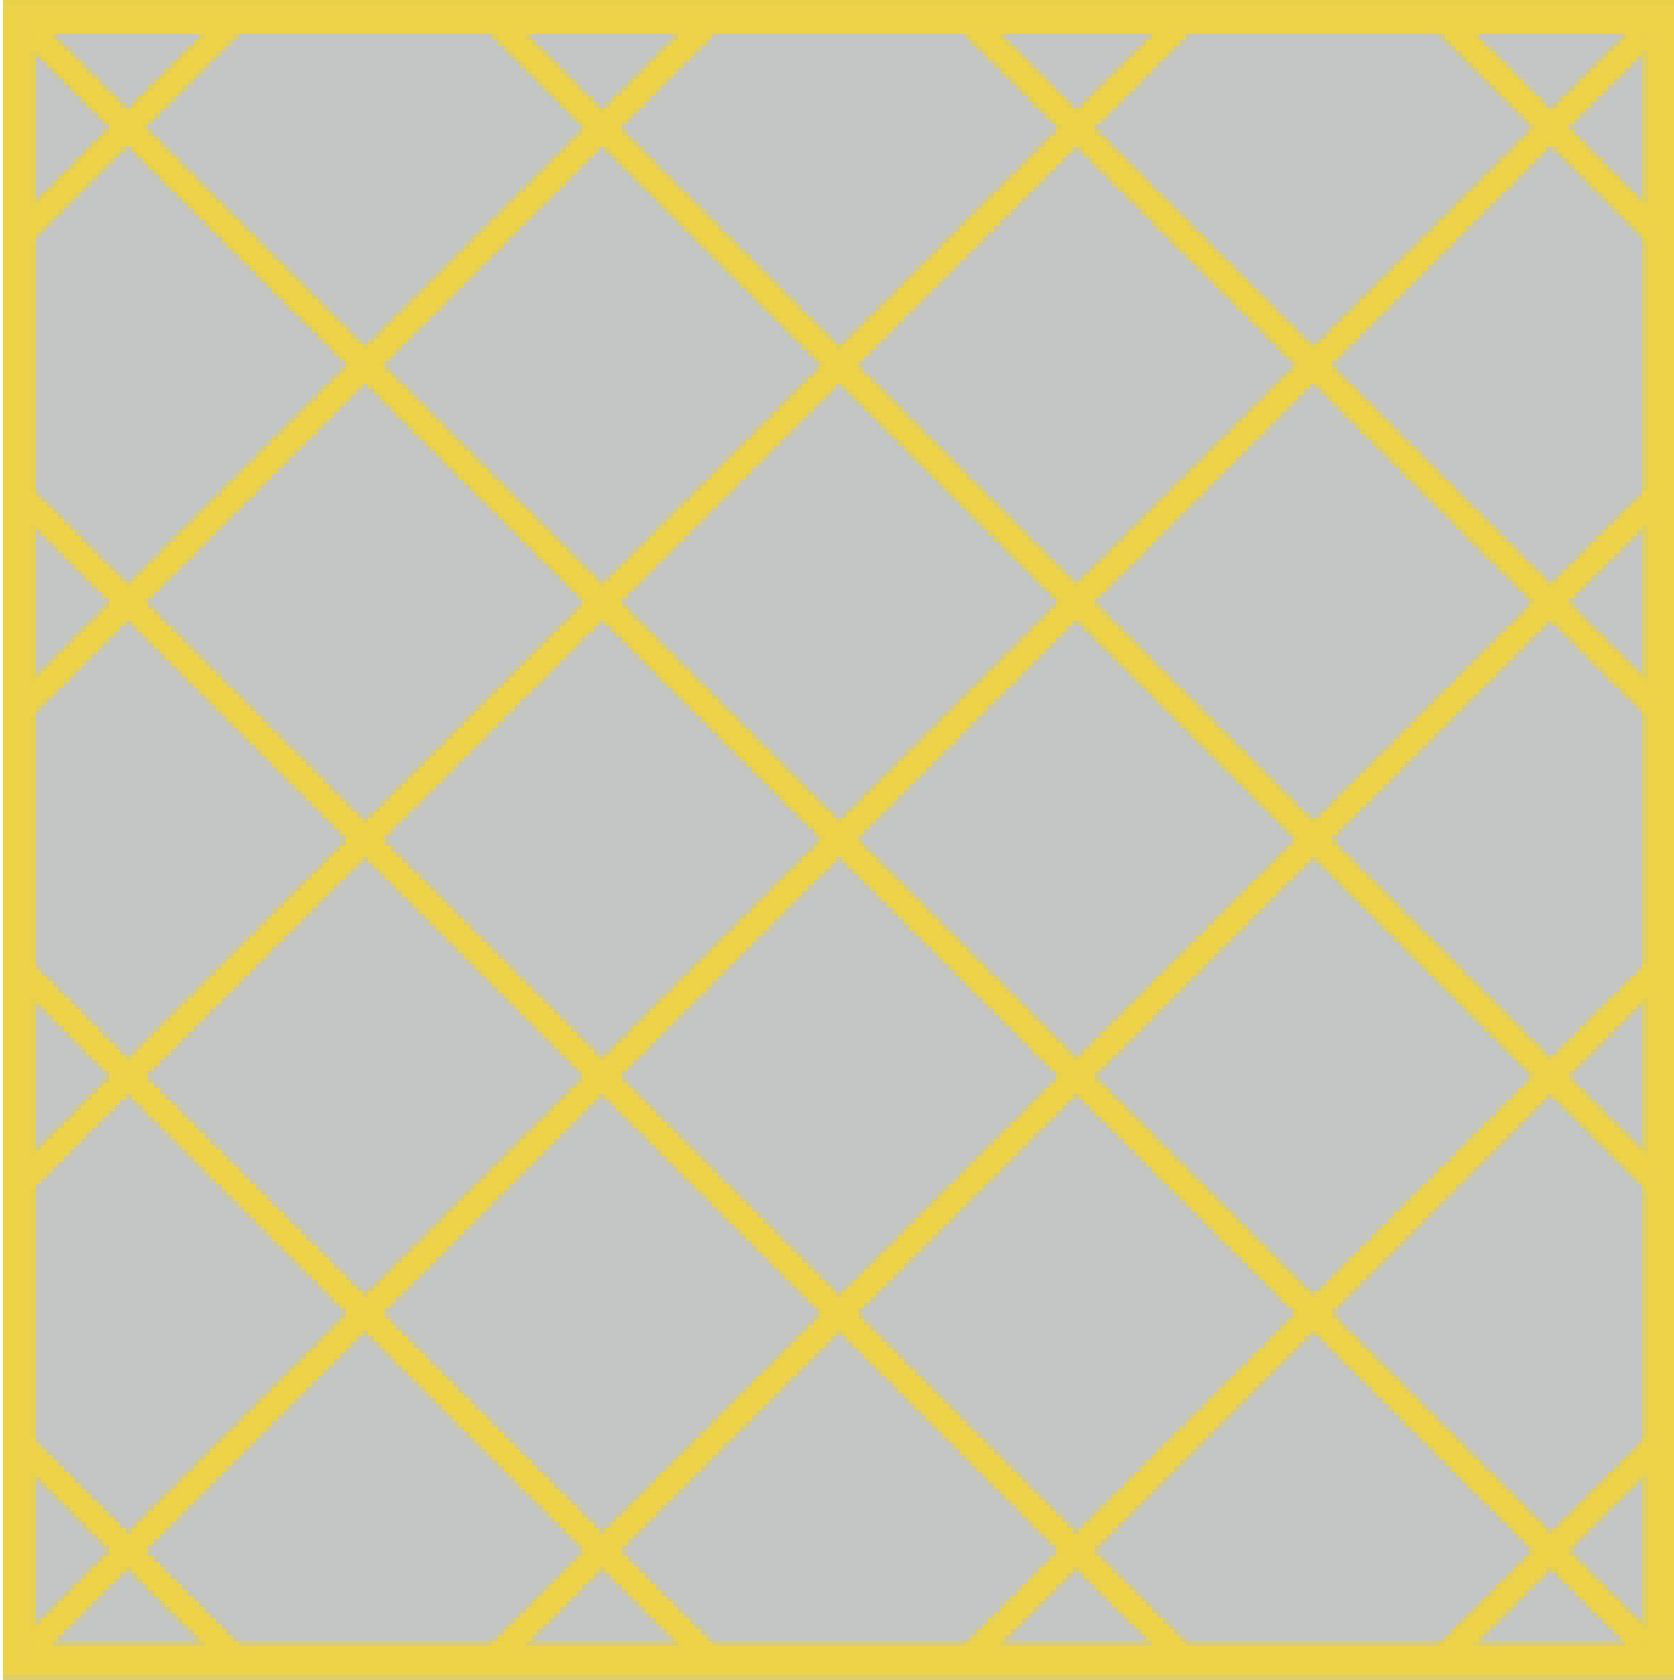
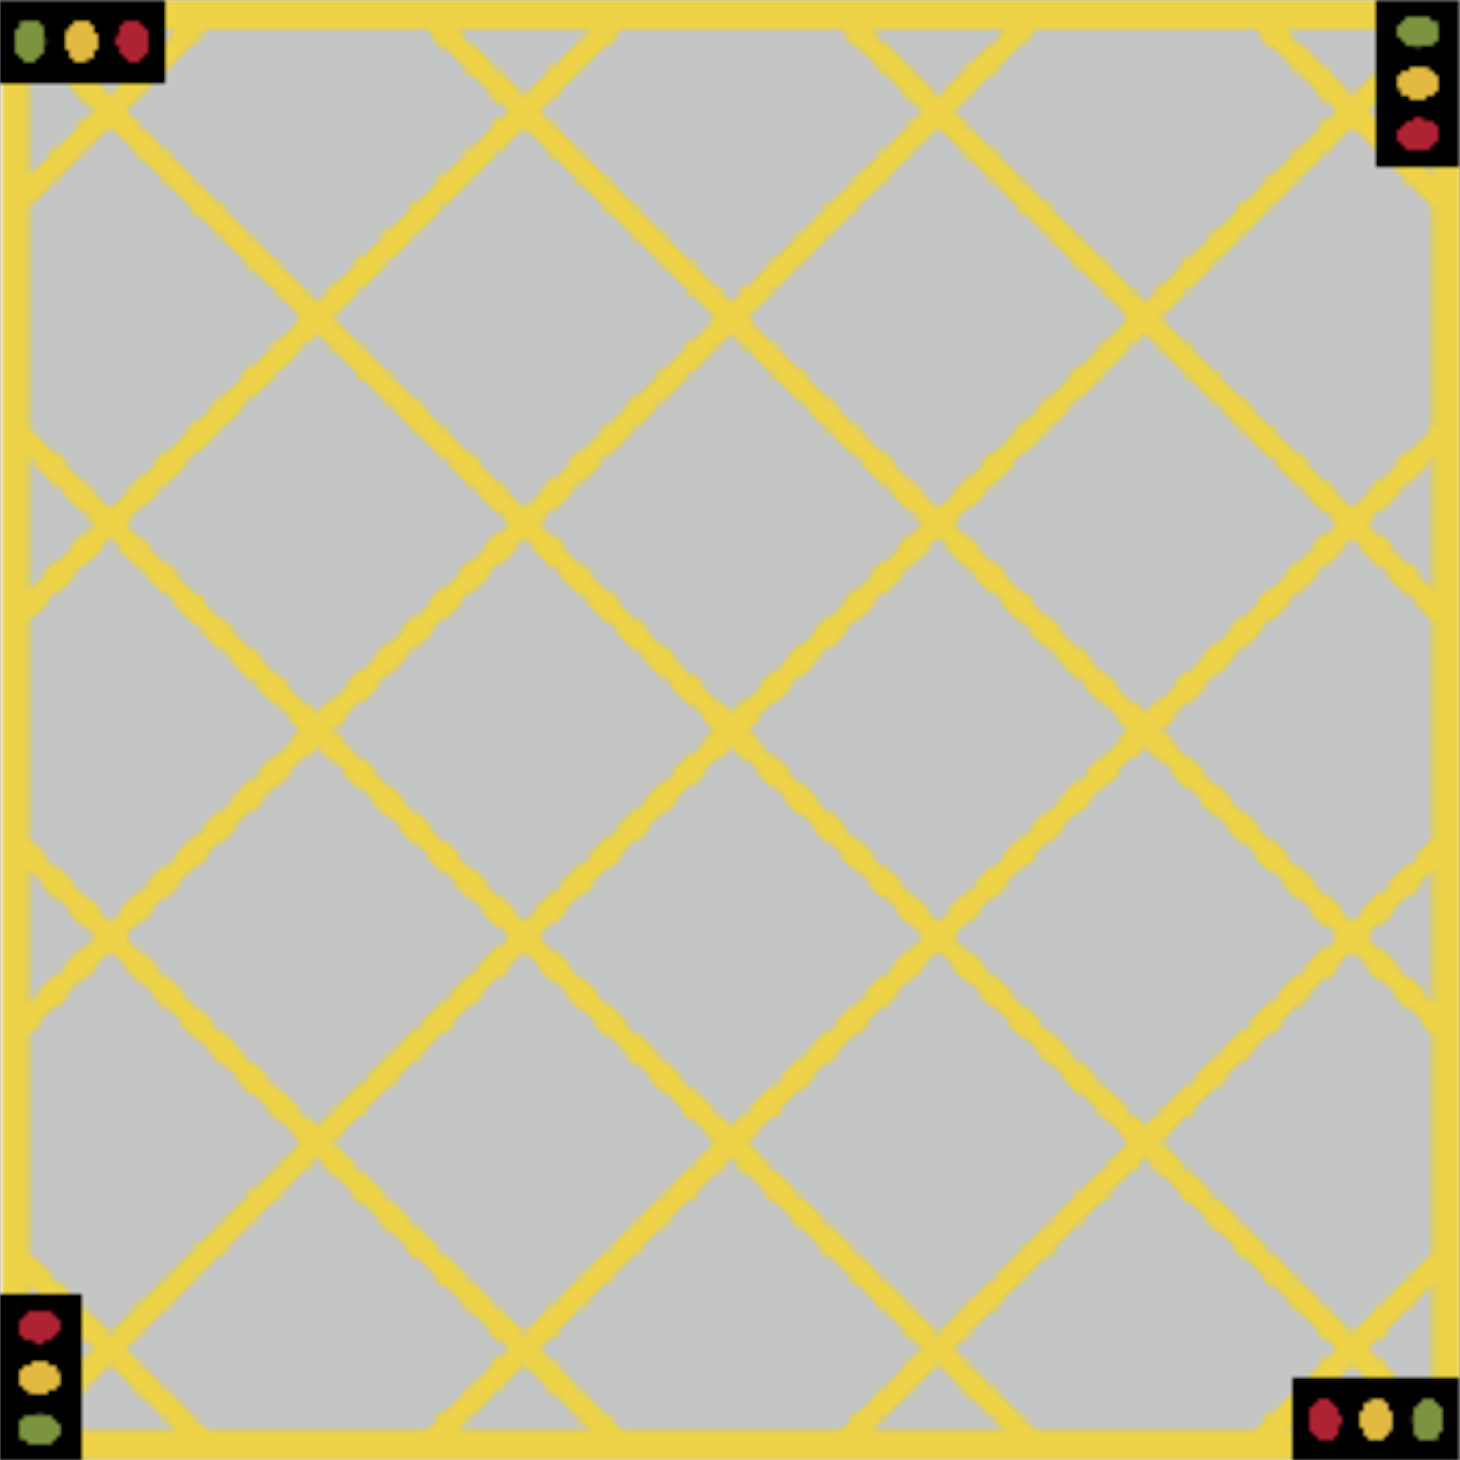
Use box junction with traffic lights as still image
Had multiple problems with traffic lights moving, so fixing them in place on the junction was an easy fix

diff --git a/frontend/src/components/JunctionVisualisationComponents/Canvas/JunctionCanvas.js b/frontend/src/components/JunctionVisualisationComponents/Canvas/JunctionCanvas.js
@@ -69,7 +69,6 @@ const JunctionCanvas = ({ config }) => {
     // Load all required images
     const images = {
       boxJunction: new Image(),
-      trafficLight: new Image(),
       pedestrianCrossing: new Image(),
       leftOnlyArrow: new Image(),
       rightOnlyArrow: new Image(),
@@ -82,7 +81,6 @@ const JunctionCanvas = ({ config }) => {
     
     // Set image sources
     images.boxJunction.src = require('../images/box.png');
-    images.trafficLight.src = require('../images/trafficLights.png');
     images.pedestrianCrossing.src = require('../images/crossing.png');
     images.leftOnlyArrow.src = require('../images/left.png');
     images.rightOnlyArrow.src = require('../images/right.png');
@@ -189,7 +187,6 @@ const JunctionCanvas = ({ config }) => {
     });
   };
   
-  // FIXME: When drawing the north case, lights start to move away from their position, and not sure why
   const drawEnteringCarLanes = (ctx, centreX, centreY, lanesToDraw, images, isSpecialLane, carData, width, direction) => {
     // Values in carData (ie vphX for directionX) determines what images are drawn in what order
 
@@ -258,13 +255,6 @@ const JunctionCanvas = ({ config }) => {
     }
 
     // Draws car lanes exiting the junction northbound
-    
-    // Draw traffic light
-    ctx.save();
-    ctx.translate(centreX + 155, centreY - 175); // Translate to the top right corner of the box
-    ctx.rotate(Math.PI); // Rotate by 180 degrees
-    ctx.drawImage(images.trafficLight, -20, -40, 20, 40); // Draw the image centered at the new origin
-    ctx.restore();
   };
 
   // Cars coming from the south
@@ -290,9 +280,6 @@ const JunctionCanvas = ({ config }) => {
     }
 
     // Draw straight arrows
-    
-    // Draw traffic light
-    ctx.drawImage(images.trafficLight, centreX - 175, centreY + 135, 20, 40);
   };
   
   // Cars coming from the east
@@ -320,13 +307,6 @@ const JunctionCanvas = ({ config }) => {
       ctx.drawImage(specialImg, -40, -100, 40, 100);
       ctx.restore();
     }
-    
-    // Draw traffic light
-    ctx.save();
-    ctx.translate(centreX + 175, startY + 135);
-    ctx.rotate(-Math.PI / 2);
-    ctx.drawImage(images.trafficLight, -40, -40, 20, 40);
-    ctx.restore();
   };
 
   // Cars coming from the west
@@ -354,13 +334,6 @@ const JunctionCanvas = ({ config }) => {
       ctx.drawImage(specialImg, 0, 0, 40, 100);
       ctx.restore();
     }
-    
-    // Draw traffic light
-    ctx.save();
-    ctx.translate(centreX - 95, startY - 175);
-    ctx.rotate(Math.PI / 2);
-    ctx.drawImage(images.trafficLight, 0, 40, 20, 40);
-    ctx.restore();
   };
   
   // Draw pedestrian crossings if enabled
